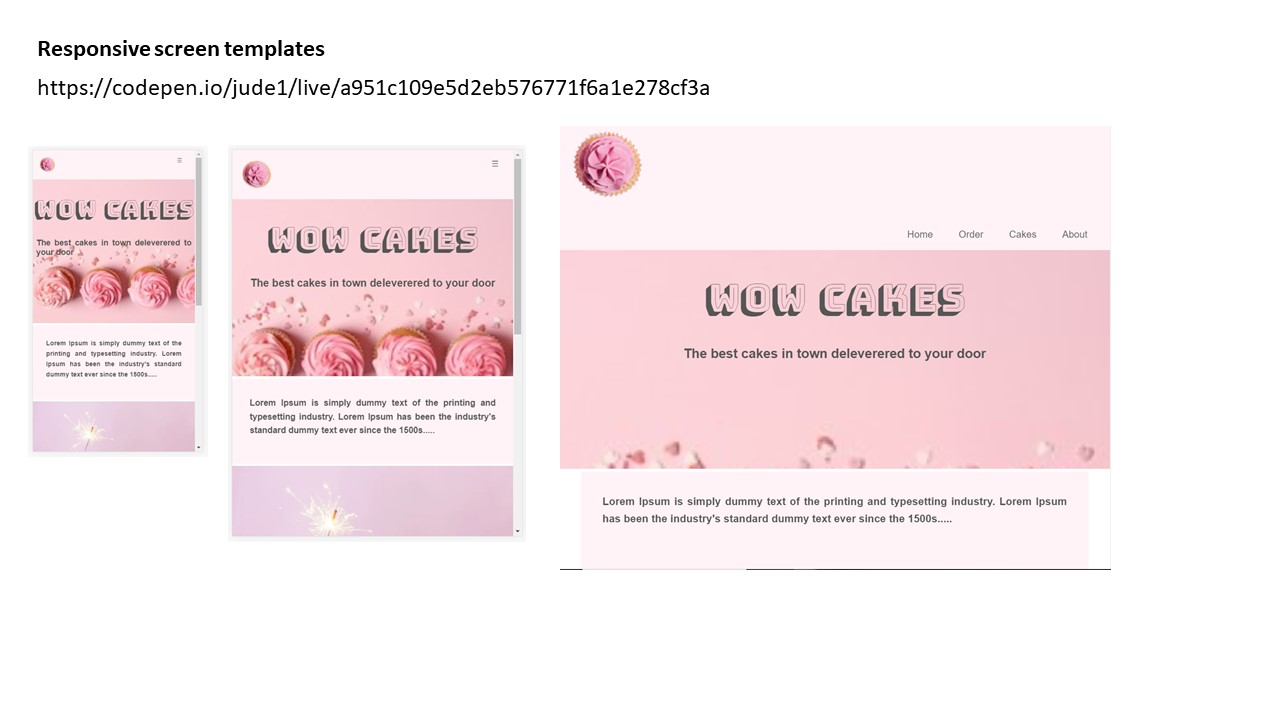
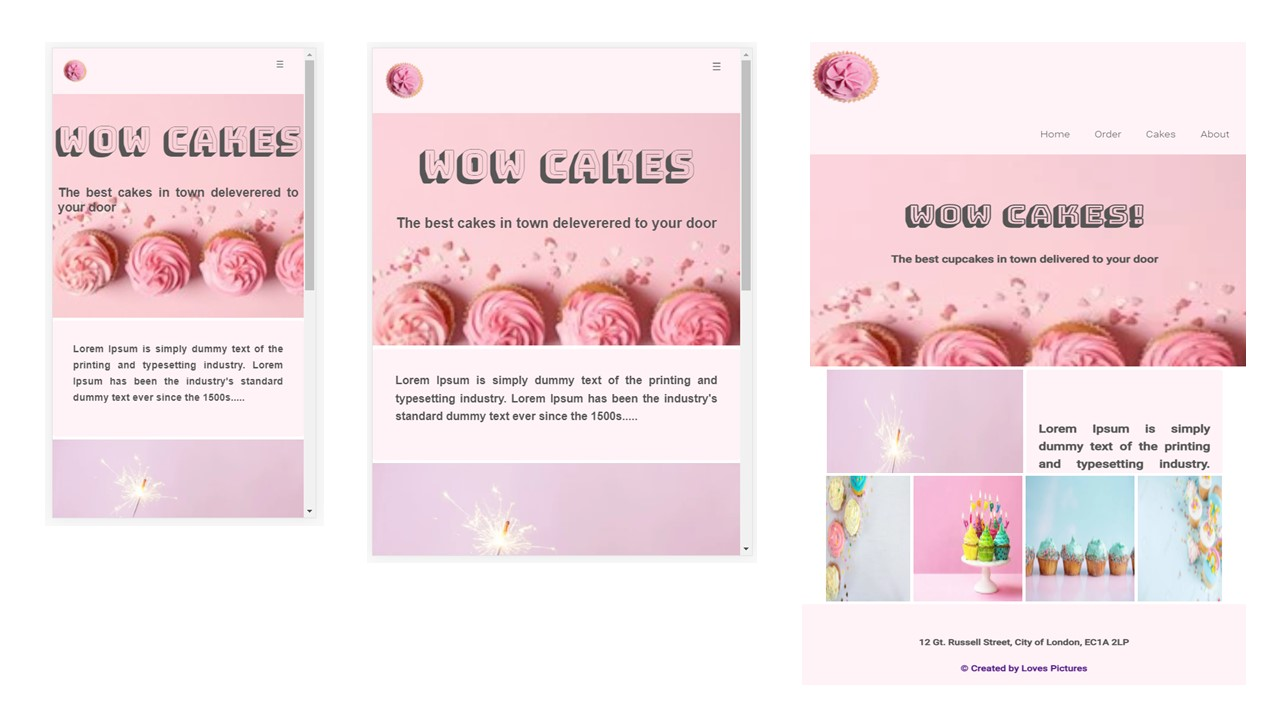
Image Adjustments
Updates on background and  general images cover .

diff --git a/index.html b/index.html
@@ -44,8 +44,8 @@
 
             <div class="section section-2 ">
                 <!--    2 - Copy -->
-                <div>
-                    <h3>Lorem Ipsum is simply dummy text of the printing and typesetting industry. Lorem Ipsum has been
+                <div>                    
+                    <h3>Welcome <br>Lorem Ipsum is simply dummy text of the printing and typesetting industry. Lorem Ipsum has been
                         the industry's standard dummy text ever since the 1500s.....</h3>
                 </div><br />
             </div>

diff --git a/css/style.css b/css/style.css
@@ -42,6 +42,7 @@ body {
   -moz-background-size: cover;
   -o-background-size: cover;
   background-size: cover;
+  background-position: bottom;
 }
 
 h1 {
@@ -99,11 +100,18 @@ h6:hover {
   display: block;
 }
 
-img {
+.cake {
+  background-color: red;
   width: 100%;
   height: 100%;
-  display: block;
   overflow: hidden;
+}
+
+
+img {
+  width: 100%;
+  height:100% ;
+  object-fit: cover;
 }
 
 /* media query for font size ------------------------------------------- */
